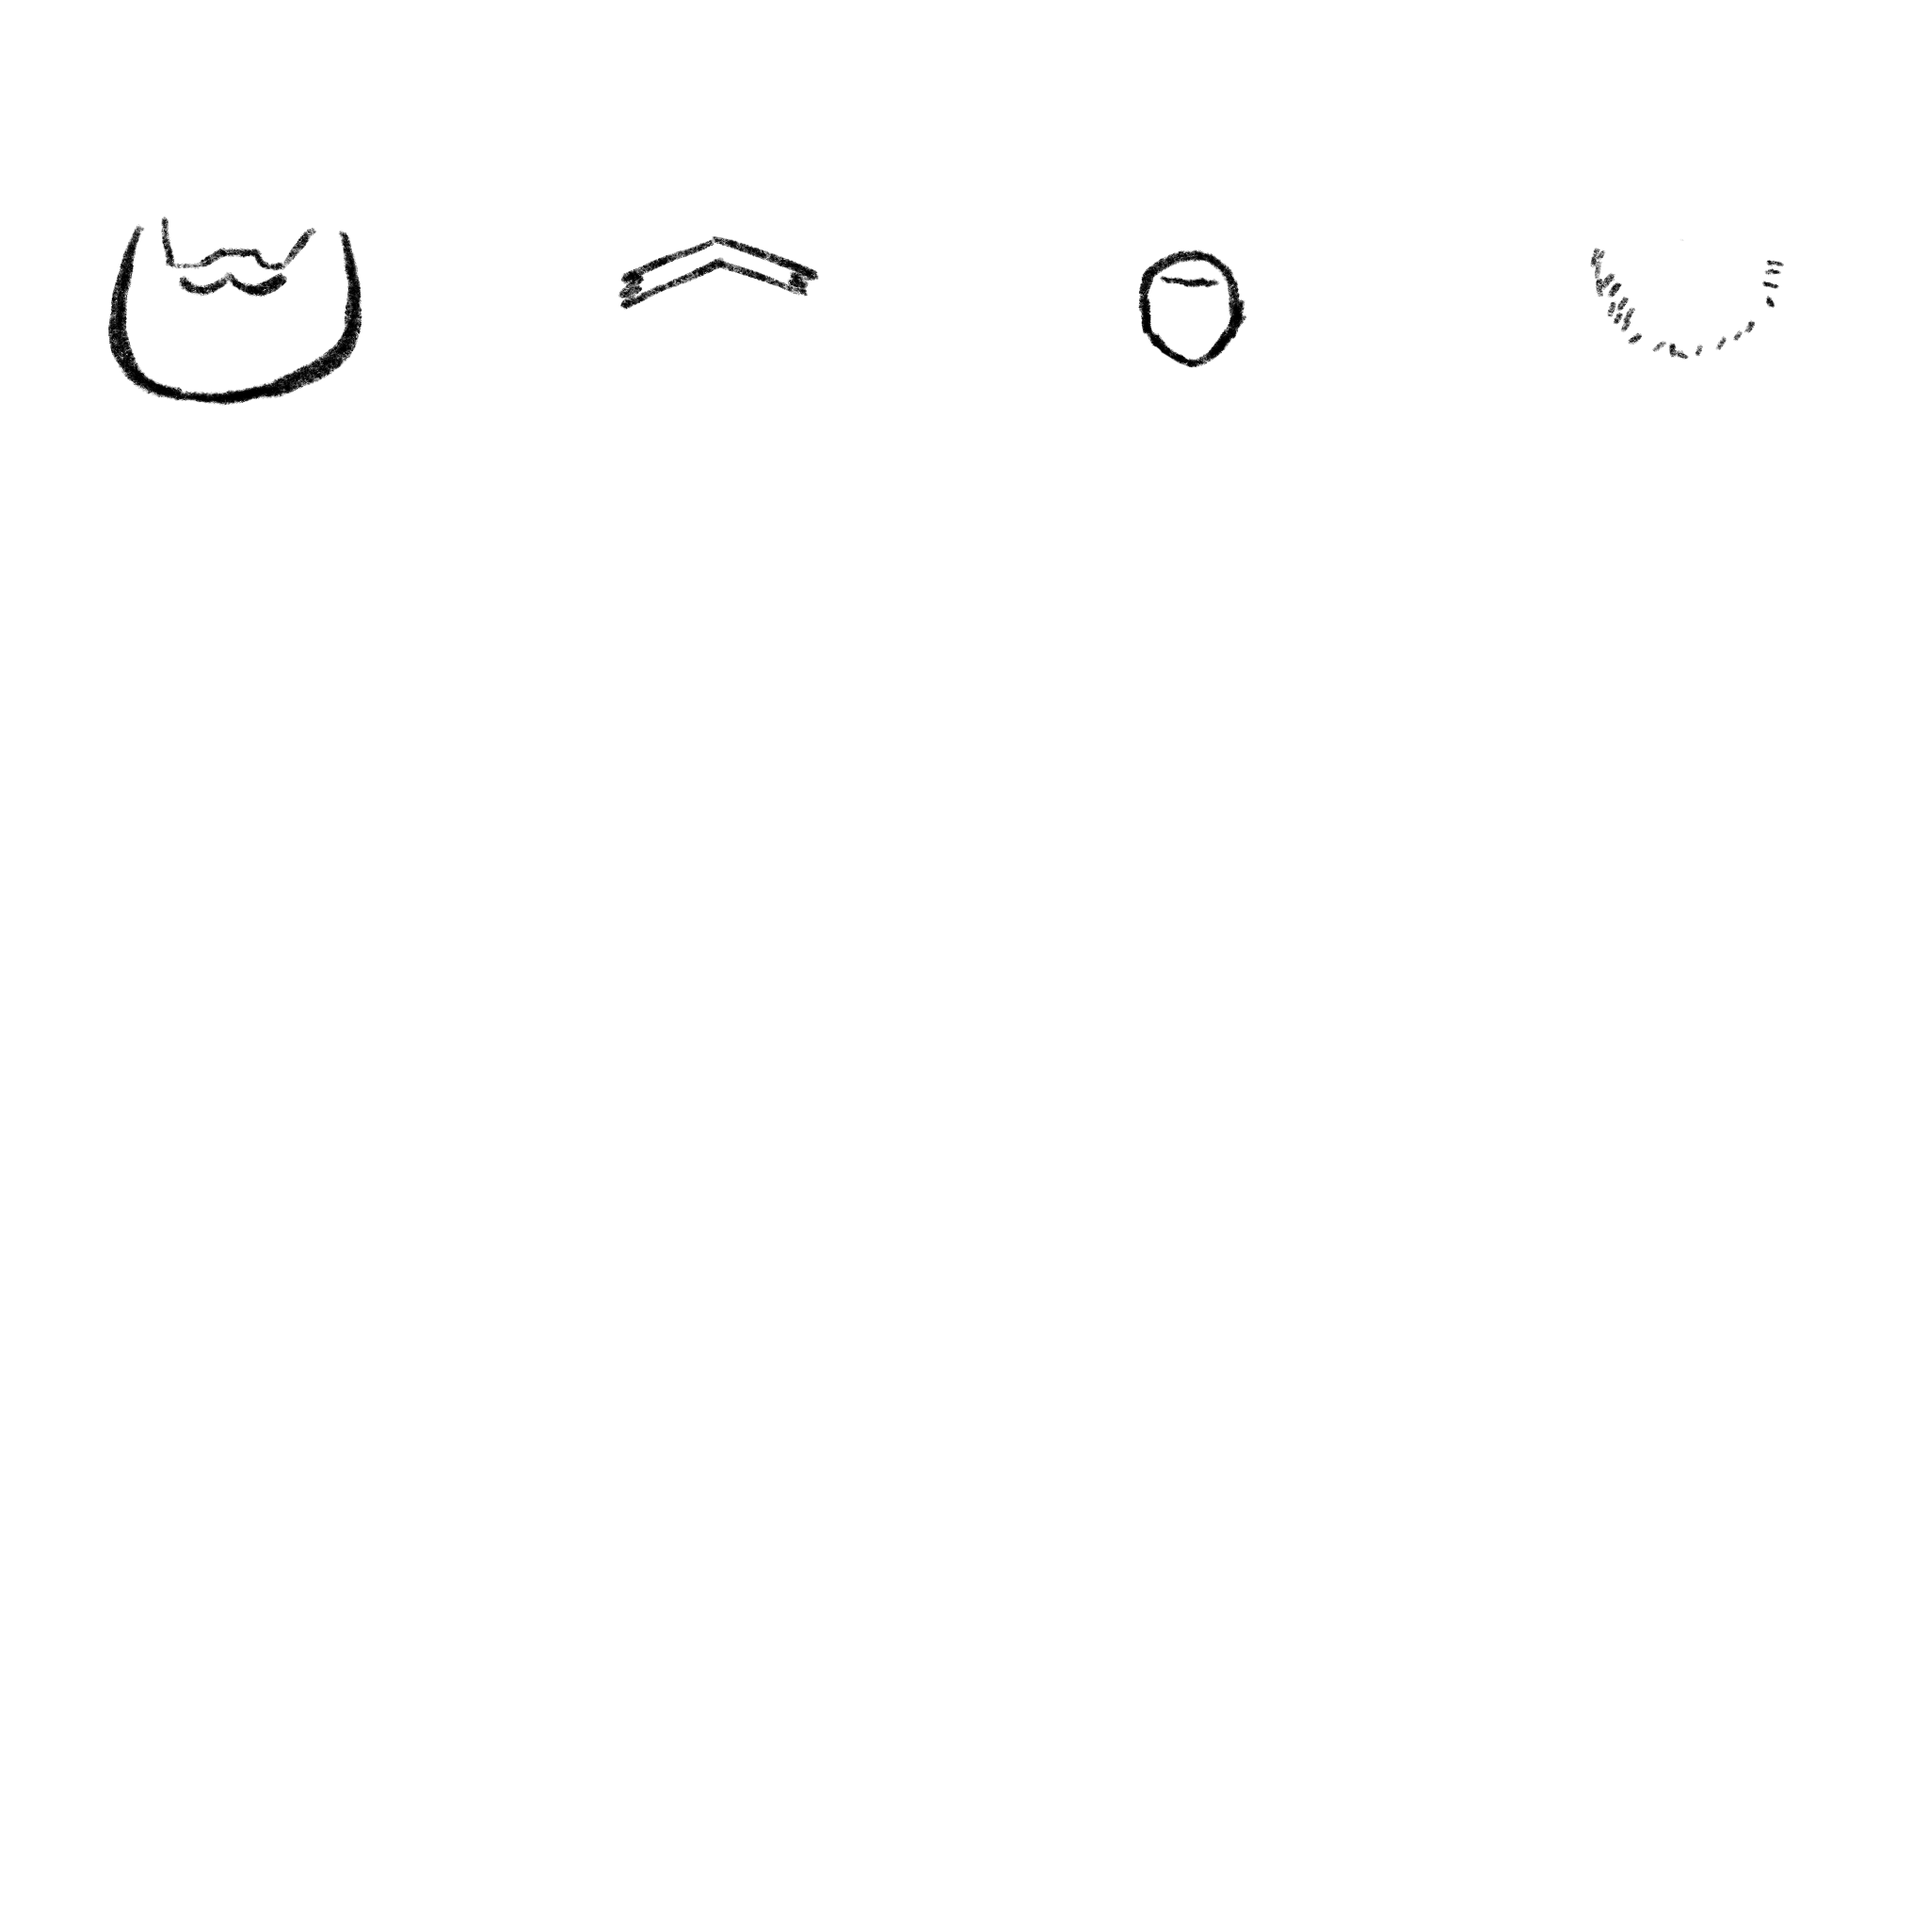
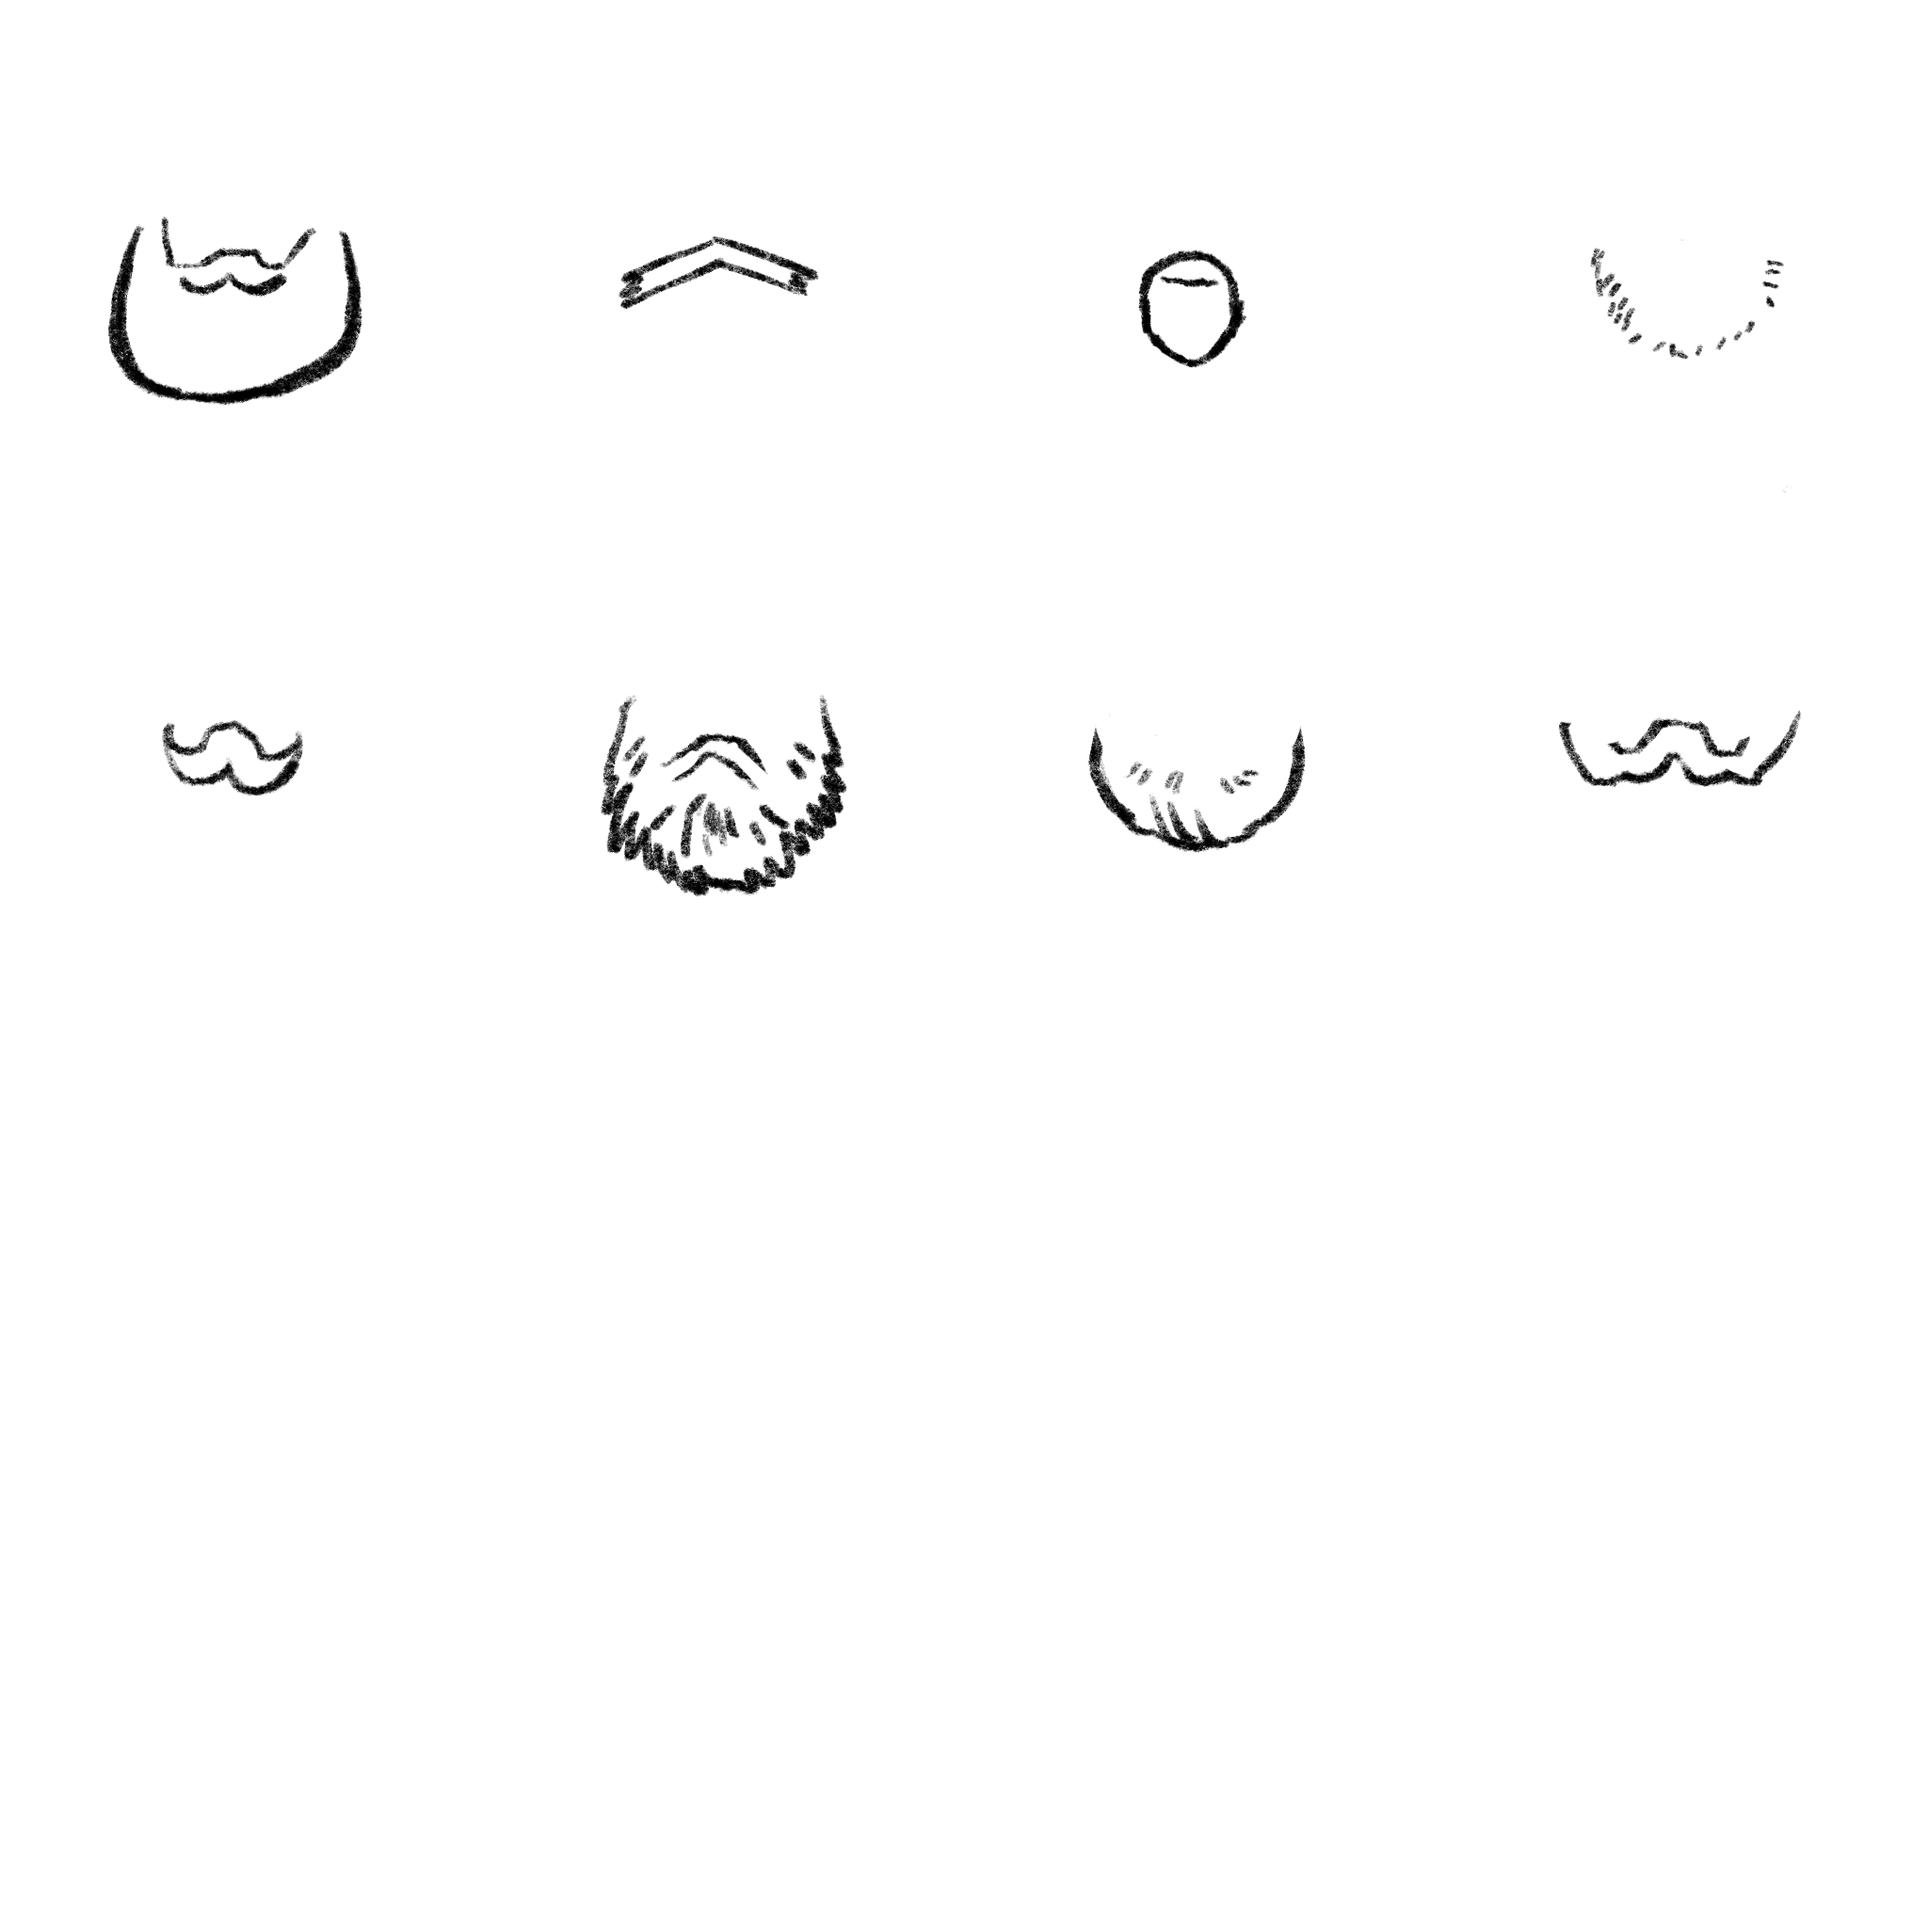
Improve facial hair

diff --git a/src/apps/portraitGenerator/drawPortrait.js b/src/apps/portraitGenerator/drawPortrait.js
@@ -70,7 +70,7 @@ const drawPortrait = async (canvas, skinVariance = 12, hairVariance = 24, clothi
     ctx.drawImage(recolorImage(heads.sprite(r(heads.size)), skinColor), 0, 0);
     ctx.drawImage(mouths.sprite(r(mouths.size)), 0, 0);
     ctx.drawImage(eyes.sprite(r(eyes.size)), 0, 0);
-    Math.random() < 0.1 && ctx.drawImage(recolorImage(hairFace.sprite(r(4)), hairColor), 0, 0);
+    Math.random() < 0.1 && ctx.drawImage(recolorImage(hairFace.sprite(r(8)), hairColor), 0, 0);
     ctx.drawImage(recolorImage(noses.sprite(r(noses.size)), skinColor), 0, 0);
     ctx.drawImage(recolorImage(hairFront.sprite(hairId), hairColor), 0, 0);
     ctx.drawImage(recolorImage(accessoryFront.sprite(accessoryId), accessoryColor), 0, 0);
